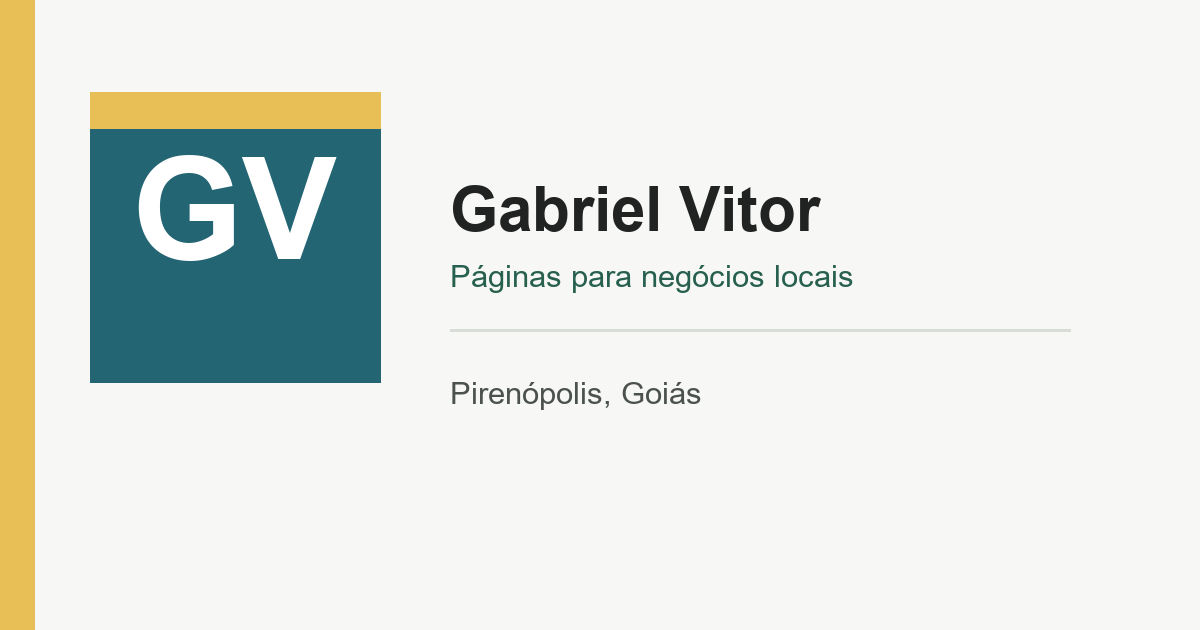
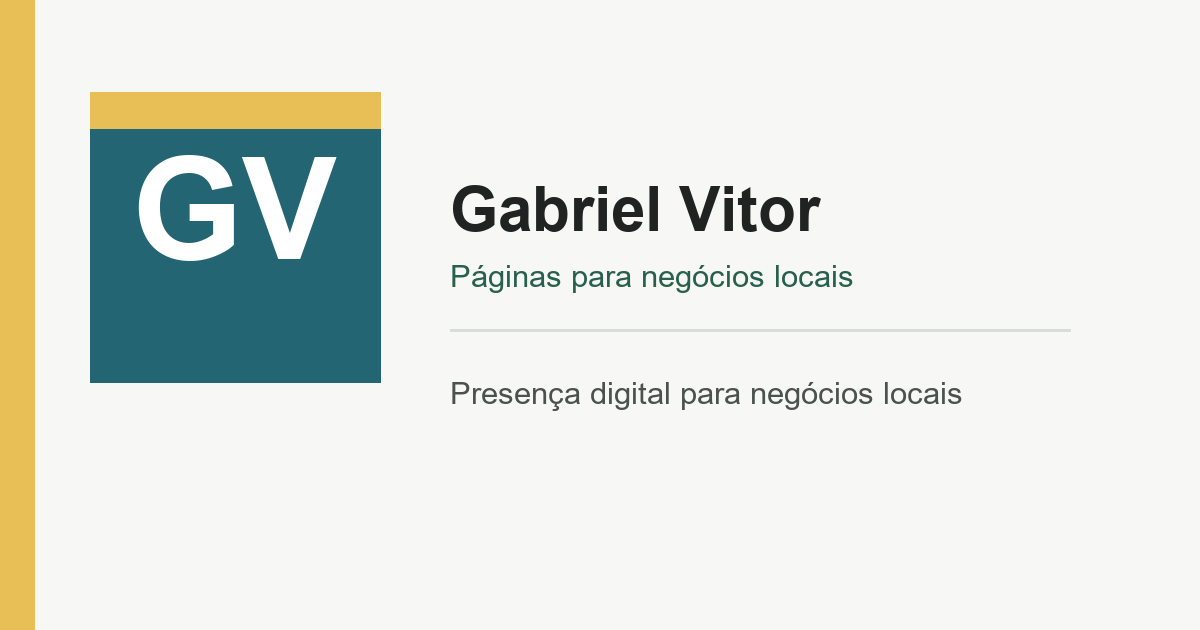
copy: broaden service area and update WhatsApp

Changed region(s): [[0.4008, 0.6032, 0.8017, 0.6635]]

diff --git a/index.html b/index.html
@@ -5,7 +5,7 @@
     <meta name="viewport" content="width=device-width, initial-scale=1.0" />
     <meta
       name="description"
-      content="Apresente seu negócio com clareza em um único link. Páginas para pousadas, lojas, salões, oficinas e negócios de Pirenópolis."
+      content="Apresente seu negócio com clareza em um único link. Páginas para pousadas, lojas, salões, oficinas e outros negócios locais."
     />
     <meta name="theme-color" content="#f7f8f5" />
     <meta name="author" content="Gabriel Vitor" />
@@ -13,7 +13,7 @@
     <meta name="referrer" content="strict-origin-when-cross-origin" />
     <link rel="canonical" href="https://gabrielvitor-1.github.io/paginanoponto/" />
     <link rel="icon" href="./favicon.svg" type="image/svg+xml" />
-    <meta property="og:title" content="Gabriel Vitor | Páginas para negócios de Pirenópolis" />
+    <meta property="og:title" content="Gabriel Vitor | Presença digital para negócios locais" />
     <meta
       property="og:description"
       content="Um link claro para mostrar o que seu negócio oferece e facilitar o contato."
@@ -30,7 +30,7 @@
     <meta property="og:image:type" content="image/png" />
     <meta property="og:image:alt" content="Gabriel Vitor, páginas para negócios locais" />
     <meta name="twitter:card" content="summary_large_image" />
-    <meta name="twitter:title" content="Gabriel Vitor | Páginas para negócios de Pirenópolis" />
+    <meta name="twitter:title" content="Gabriel Vitor | Presença digital para negócios locais" />
     <meta
       name="twitter:description"
       content="Um link claro para mostrar o que seu negócio oferece e facilitar o contato."
@@ -39,7 +39,7 @@
       name="twitter:image"
       content="https://gabrielvitor-1.github.io/paginanoponto/compartilhamento-gv.png"
     />
-    <title>Gabriel Vitor | Páginas para negócios de Pirenópolis</title>
+    <title>Gabriel Vitor | Presença digital para negócios locais</title>
     <link rel="preconnect" href="https://fonts.googleapis.com" />
     <link rel="preconnect" href="https://fonts.gstatic.com" crossorigin />
     <link
@@ -53,7 +53,7 @@
         "name": "Gabriel Vitor",
         "url": "https://gabrielvitor-1.github.io/paginanoponto/",
         "email": "mailto:gabrielvitorcontato1@gmail.com",
-        "telephone": "+55 34 99886-1525",
+        "telephone": "+55 62 99371-7831",
         "address": {
           "@type": "PostalAddress",
           "addressLocality": "Pirenópolis",
@@ -61,8 +61,8 @@
           "addressCountry": "BR"
         },
         "areaServed": {
-          "@type": "City",
-          "name": "Pirenópolis"
+          "@type": "Country",
+          "name": "Brasil"
         },
         "knowsAbout": ["Landing pages", "Páginas para pequenos negócios", "Presença digital local"]
       }
@@ -83,7 +83,7 @@
           <a href="#precos">Pacotes</a>
           <a
             class="nav-contact"
-            href="https://wa.me/5534998861525?text=Ol%C3%A1!%20Vi%20o%20site%20e%20quero%20conversar%20sobre%20uma%20p%C3%A1gina%20para%20o%20meu%20neg%C3%B3cio."
+            href="https://wa.me/5562993717831?text=Ol%C3%A1!%20Vi%20o%20site%20e%20quero%20conversar%20sobre%20uma%20p%C3%A1gina%20para%20o%20meu%20neg%C3%B3cio."
             target="_blank"
             rel="noopener noreferrer"
             aria-label="Abrir atendimento pelo WhatsApp"
@@ -101,7 +101,7 @@
       <section class="hero" id="inicio">
         <div class="container hero-grid">
           <div class="hero-copy">
-            <p class="eyebrow">Páginas para negócios de Pirenópolis</p>
+            <p class="eyebrow">Páginas para negócios locais</p>
             <h1>Fim de semana cheio. Tenha um link pronto para apresentar seu negócio.</h1>
             <p class="hero-lead">
               Em vez de responder as mesmas perguntas no WhatsApp, envie uma página com fotos,
@@ -109,7 +109,7 @@
             </p>
             <a
               class="button button-primary"
-              href="https://wa.me/5534998861525?text=Ol%C3%A1!%20Vi%20o%20site%20e%20quero%20conversar%20sobre%20uma%20p%C3%A1gina%20para%20o%20meu%20neg%C3%B3cio."
+              href="https://wa.me/5562993717831?text=Ol%C3%A1!%20Vi%20o%20site%20e%20quero%20conversar%20sobre%20uma%20p%C3%A1gina%20para%20o%20meu%20neg%C3%B3cio."
               target="_blank"
               rel="noopener noreferrer"
             >
@@ -273,7 +273,7 @@
                 </td>
                 <td class="package-action">
                   <a
-                    href="https://wa.me/5534998861525?text=Ol%C3%A1!%20Tenho%20interesse%20no%20pacote%20Essencial.%20Quero%20contar%20sobre%20o%20meu%20neg%C3%B3cio%20e%20entender%20o%20valor%20do%20projeto."
+                    href="https://wa.me/5562993717831?text=Ol%C3%A1!%20Tenho%20interesse%20no%20pacote%20Essencial.%20Quero%20contar%20sobre%20o%20meu%20neg%C3%B3cio%20e%20entender%20o%20valor%20do%20projeto."
                     target="_blank"
                     rel="noopener noreferrer"
                     >Quero entender o Essencial <span aria-hidden="true">→</span></a
@@ -294,7 +294,7 @@
                 </td>
                 <td class="package-action">
                   <a
-                    href="https://wa.me/5534998861525?text=Ol%C3%A1!%20Tenho%20interesse%20no%20pacote%20Completo.%20Quero%20contar%20sobre%20o%20meu%20neg%C3%B3cio%20e%20alinhar%20as%20se%C3%A7%C3%B5es%20e%20o%20valor%20do%20projeto."
+                    href="https://wa.me/5562993717831?text=Ol%C3%A1!%20Tenho%20interesse%20no%20pacote%20Completo.%20Quero%20contar%20sobre%20o%20meu%20neg%C3%B3cio%20e%20alinhar%20as%20se%C3%A7%C3%B5es%20e%20o%20valor%20do%20projeto."
                     target="_blank"
                     rel="noopener noreferrer"
                     >Quero entender o Completo <span aria-hidden="true">→</span></a
@@ -318,7 +318,7 @@
                 </td>
                 <td class="package-action">
                   <a
-                    href="https://wa.me/5534998861525?text=Ol%C3%A1!%20Tenho%20interesse%20no%20pacote%20Premium.%20Quero%20conversar%20sobre%20integra%C3%A7%C3%B5es%2C%20agendamento%20ou%20reservas%20e%20entender%20o%20valor%20do%20projeto."
+                    href="https://wa.me/5562993717831?text=Ol%C3%A1!%20Tenho%20interesse%20no%20pacote%20Premium.%20Quero%20conversar%20sobre%20integra%C3%A7%C3%B5es%2C%20agendamento%20ou%20reservas%20e%20entender%20o%20valor%20do%20projeto."
                     target="_blank"
                     rel="noopener noreferrer"
                     >Quero entender o Premium <span aria-hidden="true">→</span></a
@@ -344,11 +344,12 @@
           <div>
             <p class="section-label">Eu estou em Pirenópolis</p>
             <h2 id="confianca-titulo">
-              Eu vou até o seu negócio para entender o que precisa aparecer na página.
+              Em Pirenópolis e nas cidades próximas, eu posso conhecer seu negócio pessoalmente.
             </h2>
             <p>
-              Nada de explicar tudo por mensagem para alguém que nunca viu o lugar. A gente pode
-              conversar no estabelecimento e olhar os detalhes juntos.
+              Se o estabelecimento estiver por perto, eu vou até você para conhecer o espaço e
+              entender o que precisa aparecer na página. Para outras cidades, fazemos uma chamada de
+              vídeo com a mesma atenção ao que o negócio precisa.
             </p>
             <p>
               Depois, eu cuido da página e da publicação. Você acompanha, aprova e não precisa
@@ -356,10 +357,10 @@
             </p>
             <a
               class="text-link"
-              href="https://wa.me/5534998861525?text=Ol%C3%A1!%20Tenho%20um%20neg%C3%B3cio%20em%20Piren%C3%B3polis%20e%20gostaria%20de%20combinar%20uma%20conversa%20pessoalmente%20sobre%20a%20p%C3%A1gina."
+              href="https://wa.me/5562993717831?text=Ol%C3%A1!%20Quero%20conversar%20sobre%20uma%20p%C3%A1gina%20para%20o%20meu%20neg%C3%B3cio.%20Minha%20cidade%20%C3%A9%20______."
               target="_blank"
               rel="noopener noreferrer"
-              >Quero marcar uma conversa <span aria-hidden="true">→</span></a
+              >Quero conversar sobre meu negócio <span aria-hidden="true">→</span></a
             >
           </div>
         </div>
@@ -377,7 +378,7 @@
           </p>
           <a
             class="button button-light"
-            href="https://wa.me/5534998861525?text=Ol%C3%A1!%20Vi%20o%20site.%20Meu%20neg%C3%B3cio%20%C3%A9%20______%20e%20quero%20conversar%20sobre%20uma%20p%C3%A1gina."
+            href="https://wa.me/5562993717831?text=Ol%C3%A1!%20Vi%20o%20site.%20Meu%20neg%C3%B3cio%20%C3%A9%20______%20e%20quero%20conversar%20sobre%20uma%20p%C3%A1gina."
             target="_blank"
             rel="noopener noreferrer"
           >
@@ -406,7 +407,7 @@
 
     <a
       class="whatsapp-float"
-      href="https://wa.me/5534998861525?text=Ol%C3%A1!%20Vi%20o%20site%20e%20quero%20conversar%20sobre%20uma%20p%C3%A1gina%20para%20o%20meu%20neg%C3%B3cio."
+      href="https://wa.me/5562993717831?text=Ol%C3%A1!%20Vi%20o%20site%20e%20quero%20conversar%20sobre%20uma%20p%C3%A1gina%20para%20o%20meu%20neg%C3%B3cio."
       target="_blank"
       rel="noopener noreferrer"
       aria-label="Abrir atendimento pelo WhatsApp"
